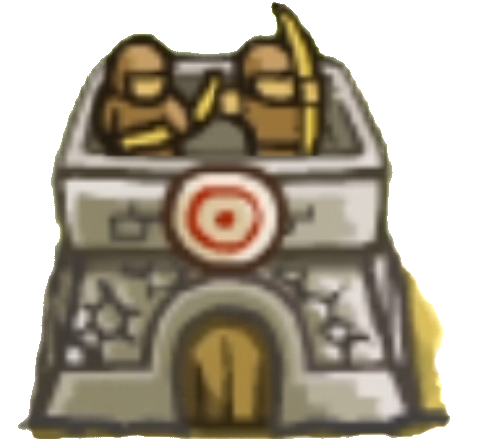
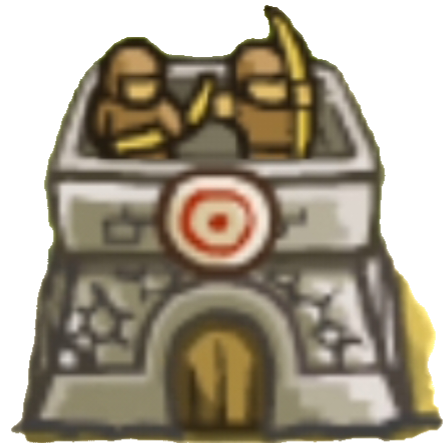
some edits on towers annimation

diff --git a/demo9/src/main/java/org/example/demo9/TowerGeneratorController.java b/demo9/src/main/java/org/example/demo9/TowerGeneratorController.java
@@ -103,7 +103,6 @@ public class TowerGeneratorController implements Initializable {
                 alert.setHeaderText(exception.getMessage());
                 alert.showAndWait();
             }
-//            archerTower.animation();
         }
         else
             showError();
@@ -112,7 +111,6 @@ public class TowerGeneratorController implements Initializable {
 
     @FXML
     void selectBomb(MouseEvent event) {
-        //build tower
         if(Integer.parseInt(Controller.getController().getCoins().getText())- TowerPrices.BOMB.getPrice()>=0)
         {
             Controller.getController().getCoins().setText(String.valueOf(Integer.parseInt(Controller.getController().getCoins().getText())-TowerPrices.BOMB.getPrice()));
@@ -121,6 +119,34 @@ public class TowerGeneratorController implements Initializable {
                 Artillery artillery=new Artillery(60);
                 map.getTowers().add(artillery);
                 Controller.getController().getMap().getChildren().remove(Controller.getController().getTowerPlace());
+                artillery.getTower().setLayoutX(Controller.getController().getSelectedTower().getLayoutX()+65-28);
+                artillery.getTower().setLayoutY(Controller.getController().getSelectedTower().getLayoutY()+65-35);
+                Controller.getController().getMap().getChildren().add(artillery.getTower());
+                artillery.getTower().setOnMouseClicked(e -> {
+                    if(Controller.getController().getPageForUpgrade()!=null)
+                    {
+                        Controller.getController().getMap().getChildren().remove(Controller.getController().getPageForUpgrade());
+                        Controller.getController().setPageForUpgrade(null);
+                    }
+                    if(Controller.getController().getSelectedTower()!=null)
+                    {
+                        Controller.getController().getMap().getChildren().remove(Controller.getController().getSelectedTower());
+                        Controller.getController().setSelectedTower(null);
+                    }
+                    FXMLLoader loader=new FXMLLoader(Main.class.getResource("UpgradeTower.fxml"));
+                    try {
+                        UpgradeTowerController.setTower(artillery);
+                        Node child=loader.load(); child.setLayoutY(artillery.getTower().getLayoutY()-50); child.setLayoutX(artillery.getTower().getLayoutX()-40);
+                        Controller.getController().setSelectedTowerUpgrade(child);
+                        Controller.getController().getMap().getChildren().add(child);
+                        Controller.getController().setPageForUpgrade(child);
+                    } catch (IOException ex) {
+                        Alert alert = new Alert(Alert.AlertType.ERROR);
+                        alert.setTitle("error");
+                        alert.setHeaderText(ex.getMessage());
+                        alert.showAndWait();
+                    }
+                });
             }catch (Exception exception){
                 Alert alert = new Alert(Alert.AlertType.ERROR);
                 alert.setTitle("error");
@@ -135,7 +161,6 @@ public class TowerGeneratorController implements Initializable {
 
     @FXML
     void selectDef(MouseEvent event) {
-        //build tower
         if(Integer.parseInt(Controller.getController().getCoins().getText())- TowerPrices.DEF.getPrice()>=0)
         {
             Controller.getController().getCoins().setText(String.valueOf(Integer.parseInt(Controller.getController().getCoins().getText())-TowerPrices.DEF.getPrice()));
@@ -144,6 +169,35 @@ public class TowerGeneratorController implements Initializable {
                 DefendTower defendTower=new DefendTower(85);
                 map.getTowers().add(defendTower);
                 Controller.getController().getMap().getChildren().remove(Controller.getController().getTowerPlace());
+                defendTower.getTower().setLayoutX(Controller.getController().getSelectedTower().getLayoutX()+65-28);
+                defendTower.getTower().setLayoutY(Controller.getController().getSelectedTower().getLayoutY()+65-35);
+                Controller.getController().getMap().getChildren().add(defendTower.getTower());
+                defendTower.getTower().setOnMouseClicked(e -> {
+                    if(Controller.getController().getPageForUpgrade()!=null)
+                    {
+                        Controller.getController().getMap().getChildren().remove(Controller.getController().getPageForUpgrade());
+                        Controller.getController().setPageForUpgrade(null);
+                    }
+                    if(Controller.getController().getSelectedTower()!=null)
+                    {
+                        Controller.getController().getMap().getChildren().remove(Controller.getController().getSelectedTower());
+                        Controller.getController().setSelectedTower(null);
+                    }
+                    FXMLLoader loader=new FXMLLoader(Main.class.getResource("UpgradeTower.fxml"));
+                    try {
+                        UpgradeTowerController.setTower(defendTower);
+                        Node child=loader.load(); child.setLayoutY(defendTower.getTower().getLayoutY()-50); child.setLayoutX(defendTower.getTower().getLayoutX()-40);
+                        Controller.getController().setSelectedTowerUpgrade(child);
+                        Controller.getController().getMap().getChildren().add(child);
+                        Controller.getController().setPageForUpgrade(child);
+                    } catch (IOException ex) {
+                        Alert alert = new Alert(Alert.AlertType.ERROR);
+                        alert.setTitle("error");
+                        alert.setHeaderText(ex.getMessage());
+                        alert.showAndWait();
+                    }
+                });
+                defendTower.animation();
             }catch (Exception exception){
                 Alert alert = new Alert(Alert.AlertType.ERROR);
                 alert.setTitle("error");
@@ -158,7 +212,6 @@ public class TowerGeneratorController implements Initializable {
 
     @FXML
     void selectWizard(MouseEvent event) {
-        //build tower
         if(Integer.parseInt(Controller.getController().getCoins().getText())- TowerPrices.WIZARD.getPrice()>=0)
         {
             Controller.getController().getCoins().setText(String.valueOf(Integer.parseInt(Controller.getController().getCoins().getText())-TowerPrices.WIZARD.getPrice()));
@@ -167,6 +220,34 @@ public class TowerGeneratorController implements Initializable {
                 WizardTower wizardTower=new WizardTower(70);
                 map.getTowers().add(wizardTower);
                 Controller.getController().getMap().getChildren().remove(Controller.getController().getTowerPlace());
+                wizardTower.getTower().setLayoutX(Controller.getController().getSelectedTower().getLayoutX()+65-28);
+                wizardTower.getTower().setLayoutY(Controller.getController().getSelectedTower().getLayoutY()+65-35);
+                Controller.getController().getMap().getChildren().add(wizardTower.getTower());
+                wizardTower.getTower().setOnMouseClicked(e -> {
+                    if(Controller.getController().getPageForUpgrade()!=null)
+                    {
+                        Controller.getController().getMap().getChildren().remove(Controller.getController().getPageForUpgrade());
+                        Controller.getController().setPageForUpgrade(null);
+                    }
+                    if(Controller.getController().getSelectedTower()!=null)
+                    {
+                        Controller.getController().getMap().getChildren().remove(Controller.getController().getSelectedTower());
+                        Controller.getController().setSelectedTower(null);
+                    }
+                    FXMLLoader loader=new FXMLLoader(Main.class.getResource("UpgradeTower.fxml"));
+                    try {
+                        UpgradeTowerController.setTower(wizardTower);
+                        Node child=loader.load(); child.setLayoutY(wizardTower.getTower().getLayoutY()-50); child.setLayoutX(wizardTower.getTower().getLayoutX()-40);
+                        Controller.getController().setSelectedTowerUpgrade(child);
+                        Controller.getController().getMap().getChildren().add(child);
+                        Controller.getController().setPageForUpgrade(child);
+                    } catch (IOException ex) {
+                        Alert alert = new Alert(Alert.AlertType.ERROR);
+                        alert.setTitle("error");
+                        alert.setHeaderText(ex.getMessage());
+                        alert.showAndWait();
+                    }
+                });
             }catch (Exception exception)
             {
                 Alert alert = new Alert(Alert.AlertType.ERROR);

diff --git a/demo9/src/main/java/org/example/demo9/model/towers/Tower.java b/demo9/src/main/java/org/example/demo9/model/towers/Tower.java
@@ -37,20 +37,16 @@ public abstract class Tower
     private ImageView level3;
     private ImageView level4;
     private ImageView level5;
-    public Tower(int damage,int price,int upgradePrice,double domain) throws IOException {
-//        tower.setFitWidth(65); tower.setFitHeight(50); tower.setPreserveRatio(true);
+    private ImageView arrow;
+    public Tower(int damage,int price,int upgradePrice,double domain,String towerImage) throws IOException {
         TowerController.setTower(this);
         FXMLLoader loader=new FXMLLoader(Main.class.getResource("Tower.fxml"));
         this.tower=loader.load();
-        this.towerImage.setImage(new Image(Main.class.getResource("pics/archer1.png").toExternalForm()));
+        this.towerImage.setImage(new Image(Main.class.getResource(towerImage).toExternalForm()));
         this.damage=damage;
         this.domain=domain;
         this.price=price;
         this.upgradePrice=upgradePrice;
-        imagesForAnimate.add(new Image(Main.class.getResource("pics/archer1.png").toExternalForm()));
-        imagesForAnimate.add(new Image(Main.class.getResource("pics/archer2.png").toExternalForm()));
-        imagesForAnimate.add(new Image(Main.class.getResource("pics/archer3.png").toExternalForm()));
-        imagesForAnimate.add(new Image(Main.class.getResource("pics/archer4.png").toExternalForm()));
         tower.setCursor(Cursor.HAND);
     }
 
@@ -150,28 +146,36 @@ public abstract class Tower
         this.tower = tower;
     }
 
+    public ArrayList<Image> getImagesForAnimate() {
+        return imagesForAnimate;
+    }
+
+    public void setImagesForAnimate(ArrayList<Image> imagesForAnimate) {
+        this.imagesForAnimate = imagesForAnimate;
+    }
+
+    public ImageView getArrow() {
+        return arrow;
+    }
+
+    public void setArrow(ImageView arrow) {
+        this.arrow = arrow;
+    }
+
     public void animation()
     {
         Timeline timeline=new Timeline();
-        timeline.getKeyFrames().add(new KeyFrame(Duration.millis(100),event -> {
-            if(animate)
-                towerImage.setImage(imagesForAnimate.getFirst());
-            else
-                towerImage.setImage(imagesForAnimate.getFirst());
-        }));
-        timeline.getKeyFrames().add(new KeyFrame(Duration.millis(300),event -> {
-            if(animate)
-                towerImage.setImage(imagesForAnimate.get(1));
-        }));
-        timeline.getKeyFrames().add(new KeyFrame(Duration.millis(500),event -> {
-            if (animate)
-                towerImage.setImage(imagesForAnimate.get(2));
-        }));
-        timeline.getKeyFrames().add(new KeyFrame(Duration.millis(700),event -> {
-            if(animate)
-                towerImage.setImage(imagesForAnimate.get(3));
-        }));
-        timeline.getKeyFrames().add(new KeyFrame(Duration.millis(900),event -> {
+        int i = 0;
+        for(i=0;i<imagesForAnimate.size();++i) {
+            int finalI = i;
+            timeline.getKeyFrames().add(new KeyFrame(Duration.millis(150+i*150), event -> {
+                if(animate)
+                    towerImage.setImage(imagesForAnimate.get(finalI));
+                else
+                    towerImage.setImage(imagesForAnimate.getFirst());
+            }));
+        }
+        timeline.getKeyFrames().add(new KeyFrame(Duration.millis(i*150+150),event -> {
             if(animate)
                 towerImage.setImage(imagesForAnimate.getFirst());
         }));
@@ -225,5 +229,12 @@ public abstract class Tower
             level4.setVisible(true);
         if(this.getLevel()>4)
             level5.setVisible(true);
+    }
+    public void damage()
+    {
+        this.getArrow().setPreserveRatio(true); this.getArrow().setLayoutX(this.getTower().getLayoutX()+40); this.getArrow().setLayoutY(this.getTower().getLayoutY()+10);
+        this.getArrow().setFitHeight(12); this.getArrow().setFitHeight(12);
+        Controller.getController().getMap().getChildren().add(arrow);
+        //transition & damage
     }
 }

diff --git a/demo9/src/main/java/org/example/demo9/model/towers/Artillery.java b/demo9/src/main/java/org/example/demo9/model/towers/Artillery.java
@@ -1,12 +1,25 @@
 package org.example.demo9.model.towers;
 
+import javafx.scene.image.Image;
+import javafx.scene.image.ImageView;
+import org.example.demo9.Main;
 import org.example.demo9.model.towers.Tower;
 
 import java.io.IOException;
+import java.util.ArrayList;
 
 public class Artillery extends Tower
 {
     public Artillery(double domain) throws IOException {
-        super(15, 125,100,domain);
+        super(15, 125,100,domain,"pics/bomb1.png");
+        ArrayList<Image> imagesForAnimate=new ArrayList<>();
+        imagesForAnimate.add(new Image(Main.class.getResource("pics/bomb1.png").toExternalForm()));
+        imagesForAnimate.add(new Image(Main.class.getResource("pics/bomb2.png").toExternalForm()));
+        imagesForAnimate.add(new Image(Main.class.getResource("pics/bomb3.png").toExternalForm()));
+        imagesForAnimate.add(new Image(Main.class.getResource("pics/bomb4.png").toExternalForm()));
+        imagesForAnimate.add(new Image(Main.class.getResource("pics/bomb5.png").toExternalForm()));
+        imagesForAnimate.add(new Image(Main.class.getResource("pics/bomb6.png").toExternalForm()));
+        this.setImagesForAnimate(imagesForAnimate);
+        this.setArrow(new ImageView(new Image(Main.class.getResource("pics/Clipped_image_20240707_174445.png").toExternalForm())));
     }
 }

diff --git a/demo9/src/main/java/org/example/demo9/model/towers/ArcherTower.java b/demo9/src/main/java/org/example/demo9/model/towers/ArcherTower.java
@@ -1,12 +1,23 @@
 package org.example.demo9.model.towers;
 
-import org.example.demo9.model.towers.Tower;
+
+import javafx.scene.image.Image;
+import javafx.scene.image.ImageView;
+import org.example.demo9.Main;
 
 import java.io.IOException;
+import java.util.ArrayList;
 
 public class ArcherTower extends Tower
 {
     public ArcherTower(double domain) throws IOException {
-        super(20,70 ,90,domain);
+        super(20,70 ,90,domain,"pics/archer1.png");
+        ArrayList <Image> imagesForAnimate=new ArrayList<>();
+        imagesForAnimate.add(new Image(Main.class.getResource("pics/archer1.png").toExternalForm()));
+        imagesForAnimate.add(new Image(Main.class.getResource("pics/archer2.png").toExternalForm()));
+        imagesForAnimate.add(new Image(Main.class.getResource("pics/archer3.png").toExternalForm()));
+        imagesForAnimate.add(new Image(Main.class.getResource("pics/archer4.png").toExternalForm()));
+        this.setImagesForAnimate(imagesForAnimate);
+        this.setArrow(new ImageView(new Image(Main.class.getResource("pics/Clipped_image_20240707_175041.png").toExternalForm())));
     }
 }

diff --git a/demo9/src/main/java/org/example/demo9/model/towers/WizardTower.java b/demo9/src/main/java/org/example/demo9/model/towers/WizardTower.java
@@ -1,11 +1,21 @@
 package org.example.demo9.model.towers;
 
 
+import javafx.scene.image.Image;
+import javafx.scene.image.ImageView;
+import org.example.demo9.Main;
+
 import java.io.IOException;
+import java.util.ArrayList;
 
 public class WizardTower extends Tower
 {
     public WizardTower( double domain) throws IOException {
-        super(25, 100, 110,domain);
+        super(25, 100, 110,domain,"pics/wizard1.png");
+        ArrayList<Image> imagesForAnimate=new ArrayList<>();
+        imagesForAnimate.add(new Image(Main.class.getResource("pics/wizard1.png").toExternalForm()));
+        imagesForAnimate.add(new Image(Main.class.getResource("pics/wizard2.png").toExternalForm()));
+        this.setImagesForAnimate(imagesForAnimate);
+        this.setArrow(new ImageView(new Image(Main.class.getResource("pics/Clipped_image_20240707_172920.png").toExternalForm())));
     }
 }

diff --git a/demo9/src/main/java/org/example/demo9/model/spells/HealSpell.java b/demo9/src/main/java/org/example/demo9/model/spells/HealSpell.java
@@ -1,5 +1,6 @@
 package org.example.demo9.model.spells;
 
+import org.example.demo9.controller.Controller;
 import org.example.demo9.model.spells.Spell;
 
 public class HealSpell implements Spell
@@ -13,7 +14,11 @@ public class HealSpell implements Spell
 
     @Override
     public void drop() {
-
+        int hearts=Integer.parseInt(Controller.getController().getHearts().getText())+5;
+        if(hearts<20)
+            Controller.getController().getHearts().setText(String.valueOf(hearts));
+        else
+            Controller.getController().getHearts().setText(String.valueOf(20));
     }
 
     public static String getInfo() {

diff --git a/demo9/src/main/java/org/example/demo9/model/towers/DefendTower.java b/demo9/src/main/java/org/example/demo9/model/towers/DefendTower.java
@@ -1,9 +1,16 @@
 package org.example.demo9.model.towers;
 
+import javafx.scene.image.Image;
+import org.example.demo9.Main;
+
 import java.io.IOException;
+import java.util.ArrayList;
 
 public class DefendTower extends Tower {
     public DefendTower(double domain) throws IOException {
-        super(5, 70, 90,domain);
+        super(5, 70, 90,domain,"pics/def1.png");
+        ArrayList<Image> imagesForAnimate=new ArrayList<>();
+        imagesForAnimate.add(new Image(Main.class.getResource("pics/def1.png").toExternalForm()));
+        this.setImagesForAnimate(imagesForAnimate);
     }
 }

diff --git a/demo9/src/main/java/org/example/demo9/model/spells/CoinSpell.java b/demo9/src/main/java/org/example/demo9/model/spells/CoinSpell.java
@@ -1,5 +1,6 @@
 package org.example.demo9.model.spells;
 
+import org.example.demo9.controller.Controller;
 import org.example.demo9.model.spells.Spell;
 
 public class CoinSpell implements Spell {
@@ -13,7 +14,7 @@ public class CoinSpell implements Spell {
 
     @Override
     public void drop() {
-
+        Controller.getController().getCoins().setText(String.valueOf(Integer.parseInt(Controller.getController().getCoins().getText())+200));
     }
 
     public static String getInfo() {

diff --git a/demo9/src/main/java/org/example/demo9/Main.java b/demo9/src/main/java/org/example/demo9/Main.java
@@ -62,7 +62,7 @@ public class Main extends Application {
         towerPlaces.add(295.0); towerPlaces.add(351.0);
         towerPlaces.add(503.0); towerPlaces.add(364.0);
         towerPlaces.add(617.0); towerPlaces.add(419.0);
-        Map firstMap=new Map(250,towerPlaces,new ArrayList<>(),end,10);
+        Map firstMap=new Map(250,towerPlaces,new ArrayList<>(),end,5);
         Database.getDatabase().getMaps().add(firstMap);
     }
 }
